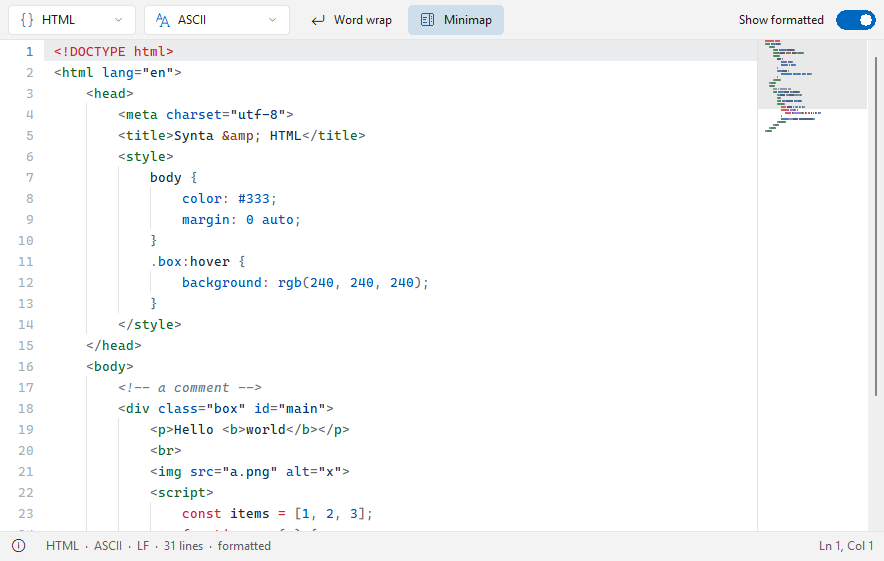
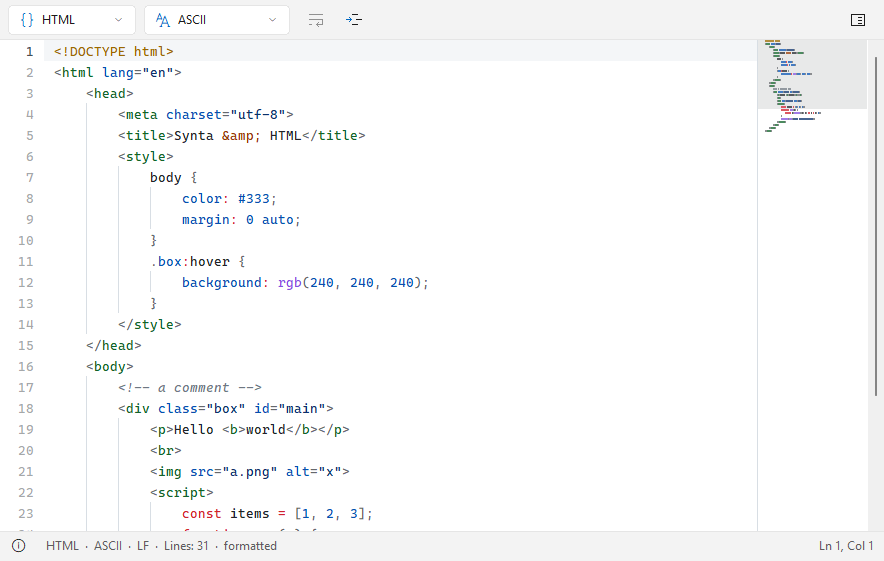
Synta 1.8.1

diff --git a/README.de.md b/README.de.md
@@ -3,7 +3,7 @@
 [English](README.md) | **Deutsch**
 
 Ein Quelltext-Betrachter mit Syntaxhervorhebung (Lister-Plugin) für den [Total Commander](https://www.ghisler.com), 32 und 64 Bit.
-F3 auf einer Quelltext-Datei, und sie lässt sich direkt lesen – mit Syntaxhervorhebung, Zeilennummern und auf Wunsch einer Minimap. Ein Schalter zeigt minimierten oder unordentlichen Code formatiert an – die Datei selbst wird nie verändert. Sprachen und Farbschemen sind Textdateien, die jeder erweitern kann. Nativ, ohne Laufzeitumgebung, außer dem Plugin muss nichts installiert werden.
+F3 auf einer Quelltext-Datei, und sie lässt sich direkt lesen – mit Syntaxhervorhebung, Zeilennummern und auf Wunsch einer Minimap. Eine Schaltfläche zeigt minimierten oder unordentlichen Code formatiert an – die Datei selbst wird nie verändert. Sprachen und Farbschemen sind Textdateien, die jeder erweitern kann. Nativ, ohne Laufzeitumgebung, außer dem Plugin muss nichts installiert werden.
 
 ![Synta zeigt eine HTML-Datei formatiert, mit Zeilennummern und Minimap](docs/screenshot.png)
 
@@ -15,8 +15,8 @@ Dateien ohne Endung werden an ihrem Namen (`Makefile`, `Dockerfile`) an einer `#
 
 ## Funktionen
 
-- **Formatiert anzeigen** (Strg+B, Schalter oben rechts): JSON, XML, HTML, CSS, SQL und C-ähnliche Sprachen werden schön eingerückt; nur Leerraum ändert sich
-- Zeilenumbruch (`W`), Minimap, Zeilennummern, Einrückungslinien, hervorgehobene aktuelle Zeile
+- **Formatiert anzeigen** (Strg+B, Symbol neben *Zeilenumbruch*): JSON, XML, HTML, CSS, SQL und C-ähnliche Sprachen werden schön eingerückt; nur Leerraum ändert sich
+- Zeilenumbruch (`W`) und Minimap als Symbol-Schaltflächen – gedimmt, wenn aus, mit Tooltips; Zeilennummern, Einrückungslinien, hervorgehobene aktuelle Zeile
 - Sprachauswahl oben links, falls eine Datei falsch erkannt wurde; daneben die Kodierungsauswahl (UTF-8, UTF-16, Windows- und DOS-Codepages), auch im Kontextmenü
 - Mit der Maus markieren (Doppelklick: Wort, Klick auf eine Zeilennummer: Zeile), mit Strg+C kopieren, mit Strg+A alles markieren
 - URLs (http, https, ftp, www., mailto) werden als Links eingefärbt; Strg+Klick öffnet sie im Standardbrowser bzw. Mailprogramm (der Mauszeiger wird zur Hand, solange Strg gedrückt ist; mit `LinkClick=1` genügt ein einfacher Klick)
@@ -25,7 +25,7 @@ Dateien ohne Endung werden an ihrem Namen (`Makefile`, `Dockerfile`) an einer `#
 - Drucken (Datei > Drucken): farbig auf weißem Papier, mit Zeilennummern, außer bei `PrintLineNumbers=0`; die Optionen "Text umbrechen" und "Auf Seite einpassen" des Total Commanders werden beachtet; bei markiertem Text druckt "Markierung" nur diesen Text
 - Helles und dunkles Design (automatisch wie Windows, wie Total Commander oder fest) im Windows-11-Stil; Farbschemen Ayu (Light, Dark, Mirage, Mirage Light), GitHub, Solarized, One, Catppuccin, Gruvbox, Tokyo Night, Rosé Pine und Visual Studio (jeweils hell und dunkel)
 - Textkodierungen: UTF-8, UTF-16 (mit oder ohne BOM) und ältere Codepages (Windows 125x, CP866, CP850, KOI8, Shift-JIS, GBK, Big5, ...), automatisch erkannt und im Kontextmenü umschaltbar (Kodierung); DOS-Text (Rahmenzeichen, Umlaute) wird als CP437/CP850/CP852/CP866 erkannt, NFO-, DIZ-, ASC- und ANS-Dateien öffnen standardmäßig als CP437; Dateien bis 512 MB
-- Statusleiste mit Sprache, Kodierung, Zeilenenden, Zeilenzahl und Cursorposition
+- Statusleiste mit Sprache, Kodierung, Zeilenenden, Zeilenzahl (`Zeilen: 250 (12)` – 12 von 250 Zeilen markiert) und Cursorposition
 - Deutsche und englische Oberfläche (folgt der Windows-Sprache)
 
 ## Eigene Sprachen und Farbschemen

diff --git a/README.md b/README.md
@@ -3,7 +3,7 @@
 **English** | [Deutsch](README.de.md)
 
 A source code viewer with syntax highlighting (Lister plugin) for [Total Commander](https://www.ghisler.com), 32 and 64 bit.
-Press F3 on a source file and read it right there – with syntax highlighting, line numbers and an optional minimap. A switch shows minified or messy code formatted – the file itself is never changed. Languages and color schemes are plain text files that anyone can extend. Native, no runtime, nothing to install besides the plugin.
+Press F3 on a source file and read it right there – with syntax highlighting, line numbers and an optional minimap. A button shows minified or messy code formatted – the file itself is never changed. Languages and color schemes are plain text files that anyone can extend. Native, no runtime, nothing to install besides the plugin.
 
 ![Synta showing an HTML file formatted, with line numbers and the minimap](docs/screenshot.png)
 
@@ -15,8 +15,8 @@ Files without an extension are recognized by their name (`Makefile`, `Dockerfile
 
 ## Features
 
-- **Show formatted** (Ctrl+B, switch at the top right): JSON, XML, HTML, CSS, SQL and C-like languages pretty-printed; only white space changes
-- Word wrap (`W`), minimap, line numbers, indent guides, highlighted current line
+- **Show formatted** (Ctrl+B, icon button next to *Word wrap*): JSON, XML, HTML, CSS, SQL and C-like languages pretty-printed; only white space changes
+- Word wrap (`W`) and minimap as icon buttons – dimmed while off, with tooltips; line numbers, indent guides, highlighted current line
 - Language picker at the top left, in case a file was recognized wrongly; next to it the encoding picker (UTF-8, UTF-16, Windows and DOS code pages), also in the context menu
 - Select with the mouse (double-click: word, click on a line number: line), copy with Ctrl+C, select all with Ctrl+A
 - URLs (http, https, ftp, www., mailto) are colored as links; Ctrl+click opens one in the default browser or mail program (the pointer turns into a hand while Ctrl is held; `LinkClick=1` makes a plain click enough)
@@ -25,7 +25,7 @@ Files without an extension are recognized by their name (`Makefile`, `Dockerfile
 - Printing (File > Print): colored on white paper, with line numbers unless `PrintLineNumbers=0`; Total Commander's "wrap text" and "fit to page" options are respected; with text selected, "Selection" prints only that text
 - Light and dark design (automatic like Windows, like Total Commander, or fixed) in the Windows 11 look; color schemes Ayu (Light, Dark, Mirage, Mirage Light), GitHub, Solarized, One, Catppuccin, Gruvbox, Tokyo Night, Rosé Pine and Visual Studio (each in a light and a dark variant)
 - Text encodings: UTF-8, UTF-16 (with or without BOM) and legacy code pages (Windows 125x, CP866, CP850, KOI8, Shift-JIS, GBK, Big5, ...), detected automatically and switchable in the context menu (Encoding); DOS text (box drawing characters, umlauts) is recognized as CP437/CP850/CP852/CP866, and NFO, DIZ, ASC and ANS files open as CP437 by default; files up to 512 MB
-- Status bar with language, encoding, line endings, number of lines and the cursor position
+- Status bar with language, encoding, line endings, number of lines (`Lines: 250 (12)` – 12 of 250 lines selected) and the cursor position
 - English and German user interface (follows the Windows language)
 
 ## Own languages and color schemes
